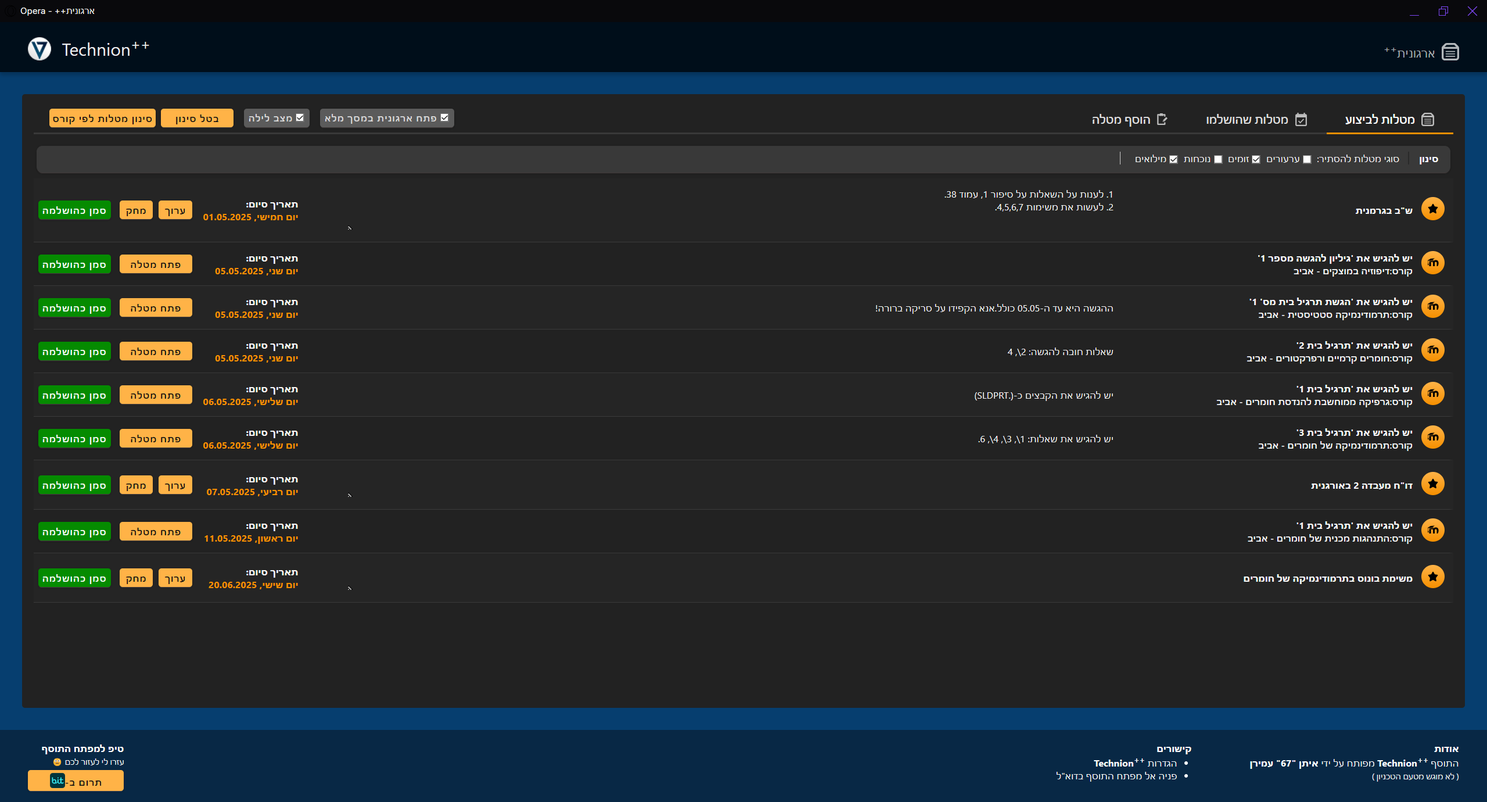
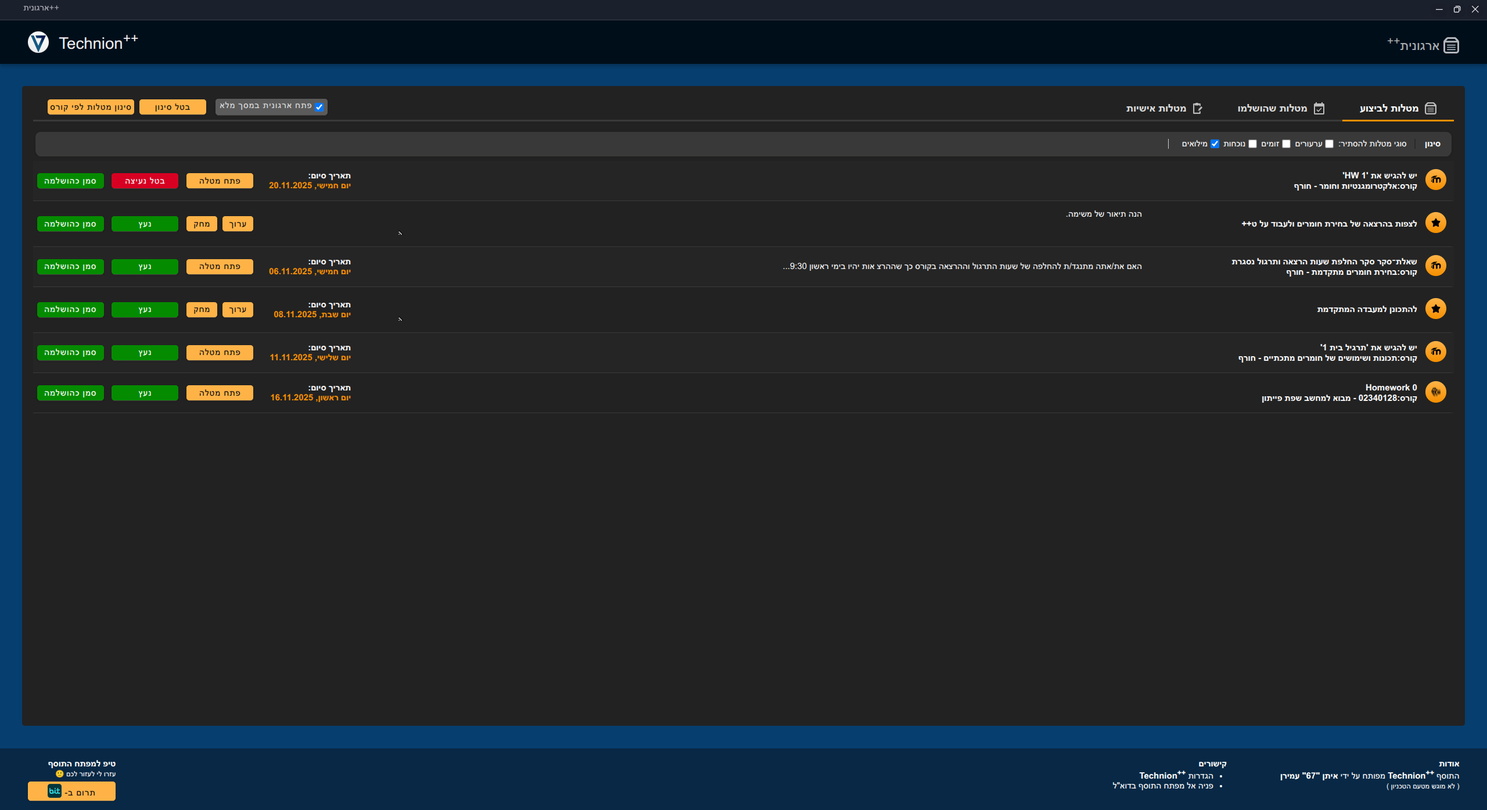
Update release notes and README.

diff --git a/src/html/release_notes.html b/src/html/release_notes.html
@@ -9,7 +9,7 @@
 <header>
     <div id="header_content">
         <!--TODO: Update version in manifest.json and release date and the list of changes here.-->
-        <span id="date" hidden="hidden">2025-10-23</span>
+        <span id="date" hidden="hidden">2025-11-07</span>
         <span id="title"></span>
         <span id="logo">
             <span class="TP_name">Technion<sup>++</sup></span>
@@ -37,37 +37,17 @@
             <img src="../icons/release_notes/added.svg" alt="פלוס ירוק"/> <span>חדש</span>
         </div>
         <div class="section_info">
-            <b>מודל</b><br/>
+            <b>ארגונית++</b><br/>
             <ul>
                 <li>
-                    התוסף עודכן לעבוד עם המודל של השנה הקרבה,
-                    <a href="https://moodle25.technion.ac.il">moodle25.technion.ac.il</a>.
-                    אמנם התוסף עדיין חלקית עובד עם המודל הישן (צבעים והורדות וכו'),
-                    אבל הוא לא נתמך יותר רשמית (אז אל תדווחו לי על באגים בו).
-                </li>
-            </ul>
-            <b>פנופטו</b><br/>
-            <ul>
-                <li>
-                    נוספה האפשרות להנמיך ולהגביר את עוצמת השמע באמצעות גלגלת העכבר.
-                    לא צריך להפעיל שום הגדרה, פשוט תגללו ותשמעו את ההבדל.
+                    אני מזכיר שבגרסה 4.0.0, ששוחררה בחופשת הסמסטר, התוסף עבר עדכון גדול,
+                    אז אם <b>הארגונית לא עובדת לכם</b>, תסירו את התוסף ותתקינו אותו מחדש.
                 </li>
                 <li>
-                    נוספה חלונית צפה עבור שינוי המהירות במהירות.
-                    הפיצ'ר שימושי עבור אנשים שמאוד אוהבים לשחק עם המהירות, מסיבה כלשהי.
-                    כשתפעילו את ההגדרה (בתפריט של טכניון++ בפנופטו), תופיעה חלונית נגררת בה תוכלו להזין מספר כלשהו עבור
-                    מהירות הסרטון החדשה. כשתלחצו על אנטר במקלדת או עם העכבר מחוץ לחלונית, המהירות תשתנה בהתאם.
-                </li>
-                <li>
-                    נוספה אפשרות לחזור אחורה בזמן (*אימוג'י בשוק*) למשך עשר שניות כאשר יורדים מהירות.
-                    הפיצ'ר שימושי למדי כאשר צופים בהרצאות במהירות מואצת, מבינים שבעצם את החומר הזה אתם לא באמת מבינים,
-                    ורוצים לחזור על משהו שפספסתם. קורה.
-                </li>
-                <li>נוסף מצב לילה בפנופטו גם בעמודים שאינם של סרטונים (יש, העיניים והסוללה שלי ניצלו!).</li>
-                <li>
-                    ניתן כעת להוסיף מהירות בהתאמה אישית מתוך חלון המהירויות הרגיל.
-                    האפשרות הזו בעצם קצת מיותרת עקב הפיצ'ר של החלונית הצפה, אבל היא שימושית לבחירת מהירות ללא פתיחת
-                    החלונית.
+                    נוספה האפשרות לנעוץ מטלות בארגונית++. נניח שיש לכם מטלה לעוד חודש, אבל זו מטלה חשובה. פרויקט, אפילו.
+                    הייתם רוצים שהיא תישאר בראש הארגונית, ולכן תמיד בתודעה. כעת זה אפשרי! יש כפתור חדש, תלחצו עליו, וזה
+                    יהיה. יש לציין שברשימת המטלות שסוימו, המטלות לא יופיעו כנעוצות, גם אם הן היו נעוצות לפני כן, אך הן
+                    כן יזכרו שהן היו נעוצות קודם ויחזרו להיות נעוצות אם תבטלו את הסימון שלהן כמסוימות.
                 </li>
                 <!--                <li>לא נוסף דבר חדש בגרסה זו.</li>-->
             </ul>
@@ -79,38 +59,15 @@
             <img src="../icons/release_notes/refresh.svg" alt="חץ מעגלי"/> <span>שונה ותוקן</span>
         </div>
         <div class="section_info">
-            <b>פנופטו</b><br/>
+            <b>ארגונית++</b><br/>
             <ul>
-                <li>ההגדרות בפנופטו (מהירות, למשל) עכשיו נשמרות כראוי.
-                    שימו לב שסגירת ה־thumbnails למטה היא הגדרה שנשמרת.
-                </li>
-                <li>
-                    כאשר מופעלת מהירות שאינה הרגילה (1.0x), הטיימר של הזמן שנותר עד סוף הסרטון משתנה לטיימר "אמיתי",
-                    המתחשב במהירות האמיתית. עד כה שני הטיימרים הוצגו, וכן לא היה ברור שזה פיצ'ר של טכניון++. מעתה, רק
-                    אחד מוצג, והוא ממותג כראוי. תוקן שוב עבור מצב יום ב־4.1.2.
-                </li>
-                <li>תוקנו כל המהירויות שאינן מספרים שלמים.</li>
-                <li>תוקנה הנראות של כפתורי הורדת פריטים מתיקייה.</li>
+                <li>תוקן באג ב־UI בעריכת מטלה אישית.</li>
                 <!--                <li>לא שונה דבר בגרסה זו.</li>-->
             </ul>
-            <b>מודל</b>
+            <b>מדמ"ח</b><br/>
             <ul>
-                <li>תוקנה הפניה למודל החדש כאשר מנסים להיכנס למודל הישן. תוקן שוב ב־4.1.1.</li>
-                <li>תוקן הקישור מהמודל של קורס מסוים לעמוד סאפ של אותו קורס.</li>
-            </ul>
-            <b>אתר מדמ"ח</b>
-            <ul>
-                <li>תוקן באג בכניסה האוטומטית לאתר של מדמ"ח (שנבע משינוי מיותר מצידם של שם של אלמנט html, אבל בסדר).
-                </li>
-            </ul>
-            <b>כללי</b>
-            <ul>
-                <li>
-                    תוקן באג ב־FireFox עצמו (באג מספר 1385832, למעוניינים)
-                    והודות לכך פיצ'ר שלא עבד קודם ב־FireFox עובד כעת (בדיקת כמה נפח האחסון התוסף תופס).
-                </li>
-                <li>תוקן ניסוח מטעה בחלונית האודות של התוסף.</li>
-                <li>תוקן באג במחשבים מסוימים בפתיחת הארגונית.</li>
+                <li>תוקן באג בשמירת מטלות מדמ"ח בתוסף, ולכן סימון שלהן כבוצע לא תמיד עבד. עכשיו, בתקווה, הוא כן.</li>
+                <li>תוקן הלוגו של מדמ"ח בתפריט הראשי ובארגונית++.</li>
             </ul>
         </div>
     </section>
@@ -134,6 +91,10 @@
                     לא ניתן לראות את ההיסטוגרמות מצ'יזפורק בסאפ הרגיל.
                     כן ניתן לראות אותן אם מגיעים לסאפ דרך קישור ישיר לקורס (למשל מפירוט על הקורס באתר צ'יזפורק).
                     זה לא ניתן לתיקון כרגע עקב מגבלות עם אופן הפעולה הנוכחי של הסאפ.
+                </li>
+                <li>
+                    לא באג, אלא מגבלה טכנית של הדפדפן, ובכל זאת:
+                    לא ניתן לראות את חלונית החלפת המהירות הצפה בפנופטו כאשר הסרטון נמצא במסך מלא.
                 </li>
                 <li>
                     זה לא בדיוק באג אבל אני כותב את זה כאן בכל מקרה כדי שלא ידווחו לי על זה:

diff --git a/README.md b/README.md
@@ -12,81 +12,64 @@
 
 - [תיאור כללי וקישורים להוריד](#תיאור-כללי-וקישורים-להוריד)
 - [פ'יצרים – מה התוסף עושה?](#פיצרים--מה-התוסף-עושה)
-    - [התחברות אוטומטית למערכות הטכניון](#התחברות-אוטומטית-למערכות-הטכניון)
-    - [הצגת מטלות קרובות](#הצגת-מטלות-קרובות)
-    - [ארגונית ++](#ארגונית-)
-    - [מחשבון ממוצע ציונים אקדמי](#מחשבון-ממוצע-ציונים-אקדמי)
-    - [שיפורים במערכת המודל](#שיפורים-במערכת-המודל)
-    - [שיפורים באתרי הפקולטה למדמ"ח](#שיפורים-באתרי-הפקולטה-למדמח-grwebcourse)
-    - [שיפורים במערכת פנופטו](#שיפורים-במערכת-פנופטו)
-    - [חיפוש וידאו מהיר](#חיפוש-וידאו-מהיר)
-    - [שליחת קבצים להדפסה](#שליחת-קבצים-להדפסה)
-    - [מסעדות פתוחות בטכניון](#מסעדות-פתוחות-בטכניון)
-    - [מנהל הורדות](#מנהל-הורדות)
-    - [שונות](#שונות)
 - [תנאי שימוש ומדיניות פרטיות](#תנאי-שימוש-ומדיניות-פרטיות)
-    - [אמ;לק](#אמלק)
-    - [איזה מידע נאסף על ידי התוסף?](#איזה-מידע-נאסף-על-ידי-התוסף)
-    - [איסוף המידע](#איסוף-המידע)
-    - [שימוש במידע](#שימוש-במידע)
-    - [שמירת המידע](#שמירת-המידע)
-    - [פרטיות המידע](#פרטיות-המידע)
-    - [קישורים חיצוניים](#קישורים-חיצוניים)
-    - [אבטחת מידע](#אבטחת-מידע)
-    - [שינויים במדיניות הפרטיות](#שינויים-במדיניות-הפרטיות)
-    - [מילות סיכום](#מילות-סיכום)
 - [אודות וצור קשר](#אודות-וצור-קשר)
-    - [מפתח(ים)](#מפתחים)
-    - [מאגר הקוד](#מאגר-הקוד)
-    - [יצירת קשר](#יצירת-קשר)
-    - [תרומה](#תרומה)
 
 ## תיאור כללי וקישורים להוריד
 
-התוסף _Technion Plus Plus_ (ובקצרה _++Technion_ (ובעברית _טכניון++_ ובערבית _التخنيون++_)) הוא תוסף לדפדפנים על בסיס
-Chromium (למשל Google Chrome, Opera, Brave, Microsoft Edge, ועוד) וגם לדפדפן FireFox, שמטרתו היא לעשות סדר בבלגן,
-להוסיף תכונות משודרגות ולהפוך את השימוש במערכות הטכניון השונות לנוח ויעיל יותר.
-בין התכונות המשולבות בתוסף: התחברות אוטומטית למרבית מערכות הטכניון, רשימות ToDoList של מטלות בית לכל מערכות הטכניון עם
-התראות כשיוצאות מטלות חדשות, חיפוש וידאו ישירות מהתוסף ללא קשר לשרת בו הוא נמצא, הורדת תוכן קורסים מהפנופטו, המודל ואתרי
-מדמ"ח בלחיצת כפתור, מחשבון ממוצע אקדמי מדוגם לתפארת ועוד תכונות רבות.
-חשוב לציין שהתוסף הינו פרויקט עצמאי, לא חובה פקולטית ולא מוגש מטעם הטכניון. מוגש מטעם איתן "67" עמירן, ומבוסס על
-_טכניון+_ של מאור לוי.
+התוסף _Technion Plus Plus_ (ובקצרה _++Technion_ (ובעברית _טכניון++_ ובערבית _التخنيون++_)) הוא תוסף לדפדפנים
+– על בסיס Chromium (למשל Google Chrome, Vivaldi, Opera, Brave, Microsoft Edge, ועוד)
+וגם על בסיס Gecko (למשל FireFox, Pale Moon, SeaMonkey, LibreWolf, Zen, ועוד) –
+שמטרתו היא לעשות סדר בבלגן, להוסיף תכונות משודרגות ולהפוך את השימוש במערכות הטכניון השונות לנוח ויעיל יותר.
+
+בין התכונות המשולבות בתוסף: התחברות אוטומטית למרבית מערכות הטכניון, _ארגונית++_ לניהול יעיל של מטלות ושיעורי בית בכל
+מערכות הטכניון עם התראות כשיוצאות מטלות חדשות, חיפוש הקלטות הרצאות ותרגולים ישירות מהתוסף, הורדת תוכן מאתרי הקורסים,
+מחשבון ממוצע אקדמי מדוגם לתפארת ועוד תכונות רבות. חשוב לציין שהתוסף הינו פרויקט עצמאי, לא חובה פקולטית ולא מוגש מטעם
+הטכניון. מוגש מטעם איתן "67" עמירן, ומבוסס על _טכניון+_ של מאור לוי.
 
 ניתן להתקין את התוסף עבור דפדפנים מבוססי Chromium
 מ[כאן](https://chromewebstore.google.com/detail/technion-plus-plus/pfhjnidbfndnjhpcpfecngcigdjebemk)
-ועבור דפדפן FireFox
-מ[כאן](https://addons.mozilla.org/en-GB/firefox/addon/technion-plus-plus/)
+ועבור דפדפנים מבוססי Gecko
+מ[כאן](https://addons.mozilla.org/en-GB/firefox/addon/technion-plus-plus/).
+
 ## פ'יצרים – מה התוסף עושה?
 
 <img align="left" height="250em" src="/.github/assets/popup.png"  alt="החלונית הראשית של התוסף"/>
 
 ### התחברות אוטומטית למערכות הטכניון
 
-התוסף מאפשר התחברות אוטומטית לרוב מערכות הטכניון, ובפרט למערכות הבאות: מודל, פנופטו, SAP, אתר הפקולטה למדמ"ח (GR++).
+התוסף מאפשר התחברות אוטומטית לכמעט כל, אם לא כל, מערכות הטכניון,
+ובפרט למערכות הבאות: מודל, פנופטו, SAP, אתרי הפקולטה למדמ"ח (GR++/Webcourse), אתר הציונים, ואתר הסטודנטים הישן.
 לאחר התקנת התוסף, יש להגדיר את פרטי ההתחברות בהגדרות התוסף, ומכאן ואילך התוסף כבר ידאג לחבר אתכם אוטומטית אל המערכות
 הנ"ל. ניתן לבטל בלחיצת כפתור את החיבור האוטומטי במקרה הצורך.
+הדבר חוסך הרבה זמן ומאמץ, במיוחד עקב קוד הגישה הנוסף שנדרש כיום ברוב מערכות הטכניון (2FA).
 
 ### הצגת מטלות קרובות
 
-- הצגת רשימת מטלות קרובות במערכות המודל, מדמ"ח ווובוורק.
-- התוסף מעדכן את המשתמש בעזרת התראה כאשר מגיעות מטלות חדשות, כאשר מטלות אלו יסומנו עד שהמשתמש יצפה בהן.
-- עבור כל מטלה תוצג כותרת המטלה, הקורס, קישור להגשת המטלה במודל או לאתר הקורס במערכות GR++ ווובוורק.
+- הצגת רשימת מטלות קרובות ממערכות המודל, מדמ"ח ו־WebWork.
+- עדכון על מטלות חדשות באמצעות התראות ישירות למחשב שלכם. המטלות החדשות יסומנו אוטומטית על ידי התוסף.
+- עבור כל מטלה תוצג כותרת המטלה, הקורס, תיאור אם קיים, וקישור להגשת המטלה במודל או לאתר הקורס במערכות GR++ ו־WebWork.
 - ניתן לסמן מטלות ככאלה שבוצעו והן יועברו לכרטיסיית "מטלות שהושלמו".
 
 ### ארגונית++ ✨
 
-- הצגת מטלות משולבת ונוחה של 3 המערכות העיקריות – מודל, מדמ"ח ווובוורק.
+- הצגת מטלות משולבת ונוחה של 3 המערכות העיקריות: מודל, מדמ"ח ו־WebWork.
+- מיון המטלות לפי תאריך יעד ולפי סטטוס הגשה (שהמשתמש בחר).
 - סינון מטלות לפי קורס ללא תלות במערכת בה נמצאת המטלה.
-- הוספת מטלות ידנית.
+- סינון מטלות לפי סוג (ערעורים, זומים, נוכחות, מילואים ועוד).
+- הוספת מטלות ידנית (כמו "להשקות את העציצים!!").
+- נעיצת מטלות כדי שיופיעו תמיד בראש הרשימה.
+- מצב מסך מלא לצפייה נוחה יותר.
 
 ![ארגונית++](.github/assets/organizer.png)
 
 ### מחשבון ממוצע ציונים אקדמי
 
-- בלחיצה מהתפריט הראשי של התוסף, המחשבון יוצא לפעולה ומסדר את כל הציונים שלכם.
-- בפעם הראשונה צריך להזין אותם ידנית, אולם לאחר מכן המחשבון זוכר את הציונים כאילו הם תמיד היו שם.
 - המחשבון מחשב ממוצע ציונים, ממוצע הצלחות ונקודות זכות שנצברו.
-- ניתן לחשב ממוצע עבור כל תת־קבוצת קורסים בהתאם לרצון המשתמש. באופן אוטומטי, המחשבון מחשב עבור הסמססטר העדכני ביותר.
+- בפעם הראשונה צריך להזין את הציונים שלכם ידנית, או לייבא אותם מתדפיס ציונים רשמי של הטכניון (PDF),
+  ולאחר מכן המחשבון זוכר את הציונים כאילו הם תמיד היו שם.
+- ניתן לחשב ממוצע עבור כל תת־קבוצת קורסים בהתאם לרצון המשתמש.
+  בנוסף, באופן אוטומטי, המחשבון מחשב עבור הסמסטר העדכני ביותר.
 - בעזרת המחשבון אפשר להתעלם מקורסים, לבדוק שיפור של ציונים בקורסים ולהוסיף ציונים חדשים כדי לבדוק כיצד הם ישנו את ממוצע
   הציונים / ממוצע ההצלחות / הנקודות שנצברו.
 - ייצוא ל־CSV של הציונים שנכנסו לממוצע (כאמור, ניתן לבחור איזה קורסים להכניס לממוצע במחשבון).
@@ -97,45 +80,47 @@ _טכניון+_ של מאור לוי.
 
 ### שיפורים במערכת המודל
 
-- מצב "לילה" – עיצוב כהה למודל. ניתן להפעיל ולבטל את העיצוב בלחיצת כפתור. ניתן לבחור צבע משני מבין 12 גוונים.
-- כפתור "הורדת קבצי כל הקורסים של סמסטר זה" בדף הראשי של המודל. הקבצים ירדו אחד אחרי השני בתור, ניתן לצאת מהדף או להמשיך
-  לגלוש באתרים אחרים ללא הפרעה.
-- בעת כניסה לדף הראשי של המודל, תחת רשימת הקורסים לפי סמסטר, תיפתח מיידית רשימת הסמסטר הרלוונטי. בזמן סמסטר קיץ, תיפתח
-  גם הרשימה של סמסטר אביב.
-- ברשימת הקורסים במודל שבבלוק של "ניווט" נוספו שמות קורסים לצד המספרים, כדי להקל על מעבר בין אתר של קורס אחד לאתר של
-  קורס אחר.
-- כפתור "הורדת חומר הקורס" בדף הראשי של המודל לכל קורס.
-- כפתור "הורדת יחידת לימוד" לצד כל כותרת של יחידת לימוד במודל.
+- מצב "לילה" – עיצוב כהה למודל. ניתן להפעיל ולבטל את העיצוב בלחיצת כפתור. ניתן גם לבחור צבע משני מבין 12 גוונים.
+- כפתור "הורדת קבצי כל הקורסים של סמסטר זה" בדף הראשי של המודל, וכפתורי "הורדת חומר הקורס" ו"הורדת יחידת לימוד" באתרי
+  הקורסים. הקבצים ירדו אחד אחרי השני בתור, כך שניתן לצאת מהדף או להמשיך לגלוש באתרים אחרים ללא הפרעה.
+- פתיחת קבצי PDF אוטומטית בכרטיסייה חדשה בדפדפן, במקום שהקבצים יבקשו לרדת למחשב שלכם בלי סיבה טובה.
+- קישורים מהירים לאתר ה־SAP ולהקלטות בפנופטו של כל קורס במודל לו יש הקלטות, ישירות מדף הקורס במודל.
 
 ![מצב הלילה במודל](.github/assets/moodle.png)
 
 ### שיפורים באתרי הפקולטה למדמ"ח (GR++/Webcourse)
 
 - כפתור להורדת כל הקבצים (תיקיות שלמות) תחת "חומר הקורס" באתרי הפקולטה. יעיל במיוחד כשרוצים להוריד את כל המבחנים,
-  ההרצאות והתרגולים בבת אחת. הקבצים ירדו אחד אחרי השני בתור, ניתן לצאת מהדף או להמשיך לגלוש באתרים אחרים ללא הפרעה.
+  ההרצאות והתרגולים בבת אחת. הקבצים ירדו אחד אחרי השני בתור, כך שניתן לצאת מהדף או להמשיך לגלוש באתרים אחרים ללא הפרעה.
 - קיימת אפשרות להוריד כל כותרת תחת "חומר הקורס" (למשל, כל תרגול או מועד במבחן) לתת-תיקיה נפרדת.
 - ניתן להוריד את כל הקבצים לפי סוגי קבצים ספציפיים: PDF, ZIP, Word, PowerPoint. קבצים עם סיומות שלא הוזכרו, עדיין ירדו
   כחלק מלחיצה על כפתור "הורדת כל הקבצים".
-- לאחר התקנת התוסף פתיחת מצגות PDF באתרי הפקולטה תהיה תמיד לכרטיסייה חדשה, במקום שהמצגות ייטענו תמיד לאותה כרטיסייה.
-- שמות הקורסים יופיעו בנוסף למספרי הקורסים בכרטיסיות המתאימים של אתרי הקורסים.
+- לאחר התקנת התוסף פתיחת מצגות PDF באתרי הפקולטה תהיה תמיד לכרטיסייה חדשה, במקום שהמצגות ייטענו לאותה כרטיסייה.
+- שמות הקורסים יופיעו בנוסף למספרי הקורסים בכרטיסיות המתאימות של אתרי הקורסים.
 
 ### שיפורים במערכת פנופטו
 
 - הורדת וידאו מהפנופטו – סרטונים יחידים, רשימת סרטונים בקורס או קורס שלם בלחיצת כפתור מהדף של הקורס. בבחירת קורס שלם או
-  רשימת סרטונים, הסרטונים ירדו אחד אחרי השני בתור, ניתן לצאת מהדף או להמשיך לגלוש באתרים אחרים ללא הפרעה.
-- מצב "לילה" – בעת צפיה בווידאו ניתן להעביר את הפנופטו למצב "לילה" בלחיצת כפתור, צבעי האתר יוחלפו בצבעים כהים.
-- קישורים להרצאות שכבר נצפו יהיו בצבע אדום, כך שיהיה קל יותר לזהות תכנים שכבר נצפו.
+  רשימת סרטונים, הסרטונים ירדו אחד אחרי השני בתור, כך שניתן לצאת מהדף או להמשיך לגלוש באתרים אחרים ללא הפרעה.
+  ניתן גם להוריד רק את השמע בהרצאות. יש לציין כי ניתן להוריד רק אם סגל הקורס אישר את ההורדה, מסיבות אתיות.
+- מצב "לילה" – בעת צפיה בווידאו ניתן להעביר את הפנופטו למצב חשוך.
+  צבעי האתר, גם בעמוד הסרטון וגם ביתר פנופטו, יוחלפו בצבעים כהים.
+- כפתורים נוחים למהירויות צפיה נוספות מעבר לפי 2, עד מהירות פי 3, כולל אפשרות לקבוע מהירות מותאמת אישית,
+  וחלונית שליטת מהירויות צפה, לאנשים שרוצים לשנות את המהירות לעיתים קרובות.
+- "חזרה בזמן" – אפשרות לחזור אוטומטית עשר שניות אחורה בסרטון כשיורדים למהירות נמוכה יותר.
 - פיצול חלון – עבור וידאו עם מצגת, נוסף כפתור שפותח את הוידאו בחלון נוסף ובכך מאפשר לצופה לצפות במרצה בתצוגה גדולה יותר.
   בנוסף, השימוש בחלון נוסף מאפשר לצופה להשתמש במסך מלא עבור שני החלונות בנפרד – שימושי למי שמחזיק בשני מסכים!
-- אפשרות "חלון צף", ככה שאפשר לראות את ההרצאה ולהמשיך לגלוש או לעשות כל דבר אחר עם המחשב.
-- אפשרות לצילום תמונה מיידי במהלך צפיה. אם נמצאים בהקלטה שמחולקת להרצאה ומצגת, התוסף ישאל איזה חלק מהשניים לצלם.
-- הוספת מהירויות צפיה מעבר לפי 2, עד מהירות פי 3.
-- שמירת העדפות – התוסף יזכור את בחירת מצב "לילה" והמהירות ויפעיל אותן אוטומטית בפעם הבאה שתפעילו וידאו בפנופטו. למשל:
+- חלון צף (Picture-in-Picture) – כך שאפשר לראות את ההרצאה ולהמשיך לגלוש או לעשות כל דבר אחר עם המחשב.
+- צילום תמונה מיידי במהלך צפיה, אם מתאפשר. אם נמצאים בהקלטה שמחולקת להרצאה ומצגת, התוסף ישאל איזה חלק מהשניים לצלם.
+- כפתור להעתקת קישור לסרטון בזמן ספציפי, כדי לשלוח לחברים. ניתן להעתיק רק את הקישור או קישור מעוצב בפורמט Markdown.
+- גלילה עם גלגלת העכבר לשינוי עוצמת הקול.
+- קישורים להרצאות שכבר נצפו יהיו בצבע אדום, כך שיהיה קל יותר לזהות תכנים שכבר נצפו.
+- שמירת העדפות – התוסף יזכור את כל הבחירות שלהם בפנופטו ויפעיל אותן אוטומטית בפעם הבאה שתפעילו וידאו בפנופטו. למשל:
   לאחר שינוי למצב מוחשך + מהירות 1.5x, כל הסרטונים שתפעילו להבא בפנופטו יפעלו גם הם אוטומטית בתצורה זו. התוסף יזכור גם
-  לחיצה על כפתור Show/Hide בצפיית וידאו עם מצגות.
-- כפתור להעתקת קישור לסרטון בזמן ספציפי. ניתן להעתיק רק את הקישור או קישור מעוצב בפורמט MarkDown.
+  לחיצה על כפתור Show/Hide בצפיית וידאו עם מצגות, וכך הלאה.
 
 ![תפריט טכניון++ בפנופטו](.github/assets/panopto.png)
+<small>אנחנו אוהבים את גידי.</small>
 
 ### חיפוש וידאו מהיר
 
@@ -146,6 +131,11 @@ _טכניון+_ של מאור לוי.
 - רשימת שבעת הקורסים האחרונים שהיו בשימוש דרך החיפוש.
 
 ![חלונית חיפוש הסרטונים](.github/assets/course%20searcher.png)
+
+### זמני הגעת אוטובוסים
+
+- הצגת זמני הגעה בזמן אמת של אוטובוסים לתחנות נבחרות בטכניון על פי לו"ז הזמנים הרשמי של משרד התחבורה.
+- אפשרות לקבל התראה זמן מותאם אישית לפני הגעת אוטובוס לתחנה.
 
 ### שליחת קבצים להדפסה
 
@@ -161,30 +151,31 @@ _טכניון+_ של מאור לוי.
 
 ### מנהל הורדות
 
-צפייה ברשימת הקבצים הממתינים להורדה על ידי התוסף (לאחר שימוש בפונקציית ההורדה של התוסף במערכות הפנופטו/GR++/Moodle)
+צפייה ברשימת הקבצים הממתינים להורדה על ידי התוסף (לאחר שימוש בפונקציית ההורדה של התוסף במערכות הפנופטו / Moodle / מדמ"ח)
 ושינוי הרשימה.
 
 ![חלונית מנהל ההורדות](.github/assets/course%20downloader.png)
 
 ### שונות
 
-- חלונית "קישורים שימושיים" בתוסף: אפגרייד, BookMe, לוח שנה אקדמי, מפה רשמית של הטכניון, הורדת אופיס 365 טכניוני
-  בחינם, חנות מיקרוסופט של הטכניון ועוד...
+- אפשרות להוסיף קישור מותאם אישית בראש התוסף, מיד ליד הקישורים למודל ול־SAP. אני ממליץ על קישור לדרייב הפקולטי.
+- חלונית "קישורים שימושיים" בתוסף:
+  צ'יזפורק, אתר הציונים (Upgrade), פנופטו, אתר הסטונדטים הישן, אתר הזמנת חדרי לימוד (BookMe), אתר ספריות הטכניון, לוח
+  שנה אקדמי, מפה רשמית של הטכניון, הורדת אופיס 365 טכניוני בחינם, חנות מיקרוסופט של הטכניון ועוד...
 - בחירת עוצמת ההתראות (ווליום) עבור מטלות הבית והתראות אוטובוסים.
-- כשנכנסים לאתר של שרת הווידאו הישן – בראש העמוד יופיעו קישורי ניווט בהתאם לפקולטה הרצויה. למרות זאת, מומלץ בהרבה להשתמש
-  בפונקציית חיפוש הווידאו של התוסף.
+- ניתן לראות (בעמודים מסוימים של) SAP את היסטוגרמות הקורסים השונים, בעזרת שיתוף פעולה עם האתר
+  [CheeseFork](https://cheesefork.cf).
 
 ## תנאי שימוש ומדיניות פרטיות
 
 ### אמ;לק
 
-התוסף טכניון++ פותח במקור על ידי מאור לוי ומפותח בהווה על ידי איתן "67" עמירן על מנת לשמש כל סטודנט בטכניון שרוצה להשתמש
-בו. התוסף מיועד לשימוש בחינם, כמו שהוא וללא שינוי.
-המשתמש רשאי לעשות כרצונו בהתאם למגבלות רישיון GPLv3. השימוש בתוסף "כרגיל" (הורדתו דרך חנות התוספים הרשמית ושימוש שגרתי
-בו) מהווה אישור לכך שהמשתמש קרא את מדיניות הפרטיות המפורטת בדף זה והסכים לה.
+התוסף מיועד לשימוש בחינם, כמו שהוא וללא שינוי. המשתמש רשאי לעשות כרצונו בהתאם למגבלות רישיון GPLv3. השימוש בתוסף
+"כרגיל" (הורדתו דרך חנות התוספים הרשמית ושימוש שגרתי בו) מהווה אישור לכך שהמשתמש קרא את מדיניות הפרטיות המפורטת בדף זה
+והסכים לה.
 
 התוסף, טכניון++, אוסף **רק** את הפרטים הבאים שהמשתמש מזין לו מרצונו החופשי: **העדפות כלליות, אימייל טכניוני, סיסמה
-לאימייל הטכניוני, מספר תעודת זהות, סיסמת יומן GR++, קישור מותאם אישית**. אם המידע נמחק מהתוסף (על ידי דף ההגדרות)
+לאימייל הטכניוני, מספר תעודת זהות, סיסמת יומן GR++, קישור מותאם אישית, נתוני משימות לימודיות**. אם המידע נמחק מהתוסף
 הוא נמחק כליל ולא נשמר בשום מקום. פרטי המשתמש וההגדרות שבשימוש התוסף נשמרים בזיכרון הדפדפן של המשתמש בלבד ולא נשלחים
 לאף שרת (למעט שרתים רשמיים של הטכניון) וכמובן שלא לאף צד ג'. יש להבהיר שוב כי התוסף לא שולח שום מידע לשום מקום;
 **כל המידע נותר לוקאלית על המחשב של המשתמש**.
@@ -259,12 +250,8 @@ _טכניון+_ של מאור לוי.
 התוסף פותח בעבר בהתנדבות על ידי **מאור לוי** ומפותח בהווה גם בהתנדבות על ידי **איתן "67" עמירן**, ואינו נתמך בשום צורה
 על ידי הטכניון.
 
-בנוסף, ברצוני להודות למפתח של האתר המצוין [CheeseFork](https://cheesefork.cf) על שיתוף הפעולה בשיתוף היסטוגרמות.
-
-### מאגר הקוד
-
-כל הקוד של התוסף ממועזר. זה נעשה כדי שהוא ירוץ מהר יותר על המחשב שלכם. אם בכל מקרה מעניין אתכם לראות את הקוד, כדי לוודא
-שאני לא מריץ לכם וירוס על המחשב, לא אלאה אתכם בקריאת קוד ממוזער – אתם עכשיו נמצאים במאגר הקוד המלא.
+בנוסף, ברצוני להודות למפתח של האתר המצוין [CheeseFork](https://cheesefork.cf) על שיתוף הפעולה בשיתוף היסטוגרמות
+ולכל יתר האנשים שתורמים לתוסף בדיווח על באגים, רעיונות לפיצ'רים חדשים ומימושם.
 
 ### יצירת קשר
 
